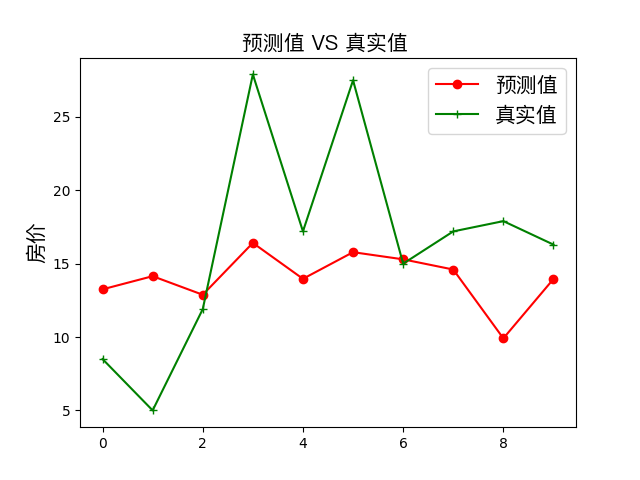
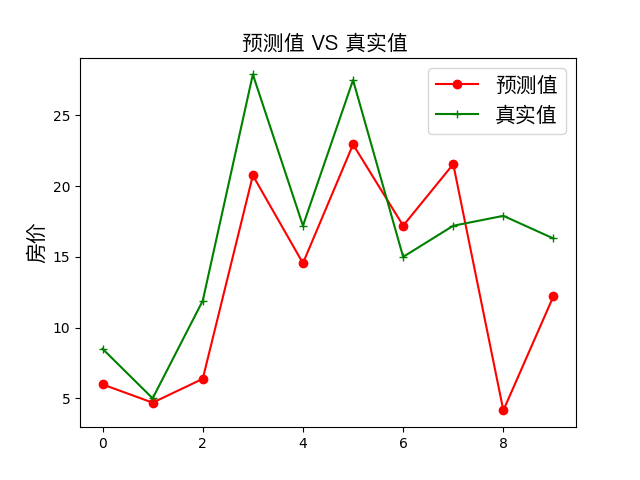
add image about readme

diff --git a/fit_a_line_Demo/train.py b/fit_a_line_Demo/train.py
@@ -112,7 +112,7 @@ def main():
     # 该api不会删除任何操作符,请在backward和optimization之前使用
     test_program = main_program.clone(for_test=True)
 
-    sgd_optimizer = fluid.optimizer.SGD(learning_rate=0.001)  # 学习率
+    sgd_optimizer = fluid.optimizer.SGD(learning_rate=0.1)  # 学习率
     sgd_optimizer.minimize(avg_loss)
 
     """
